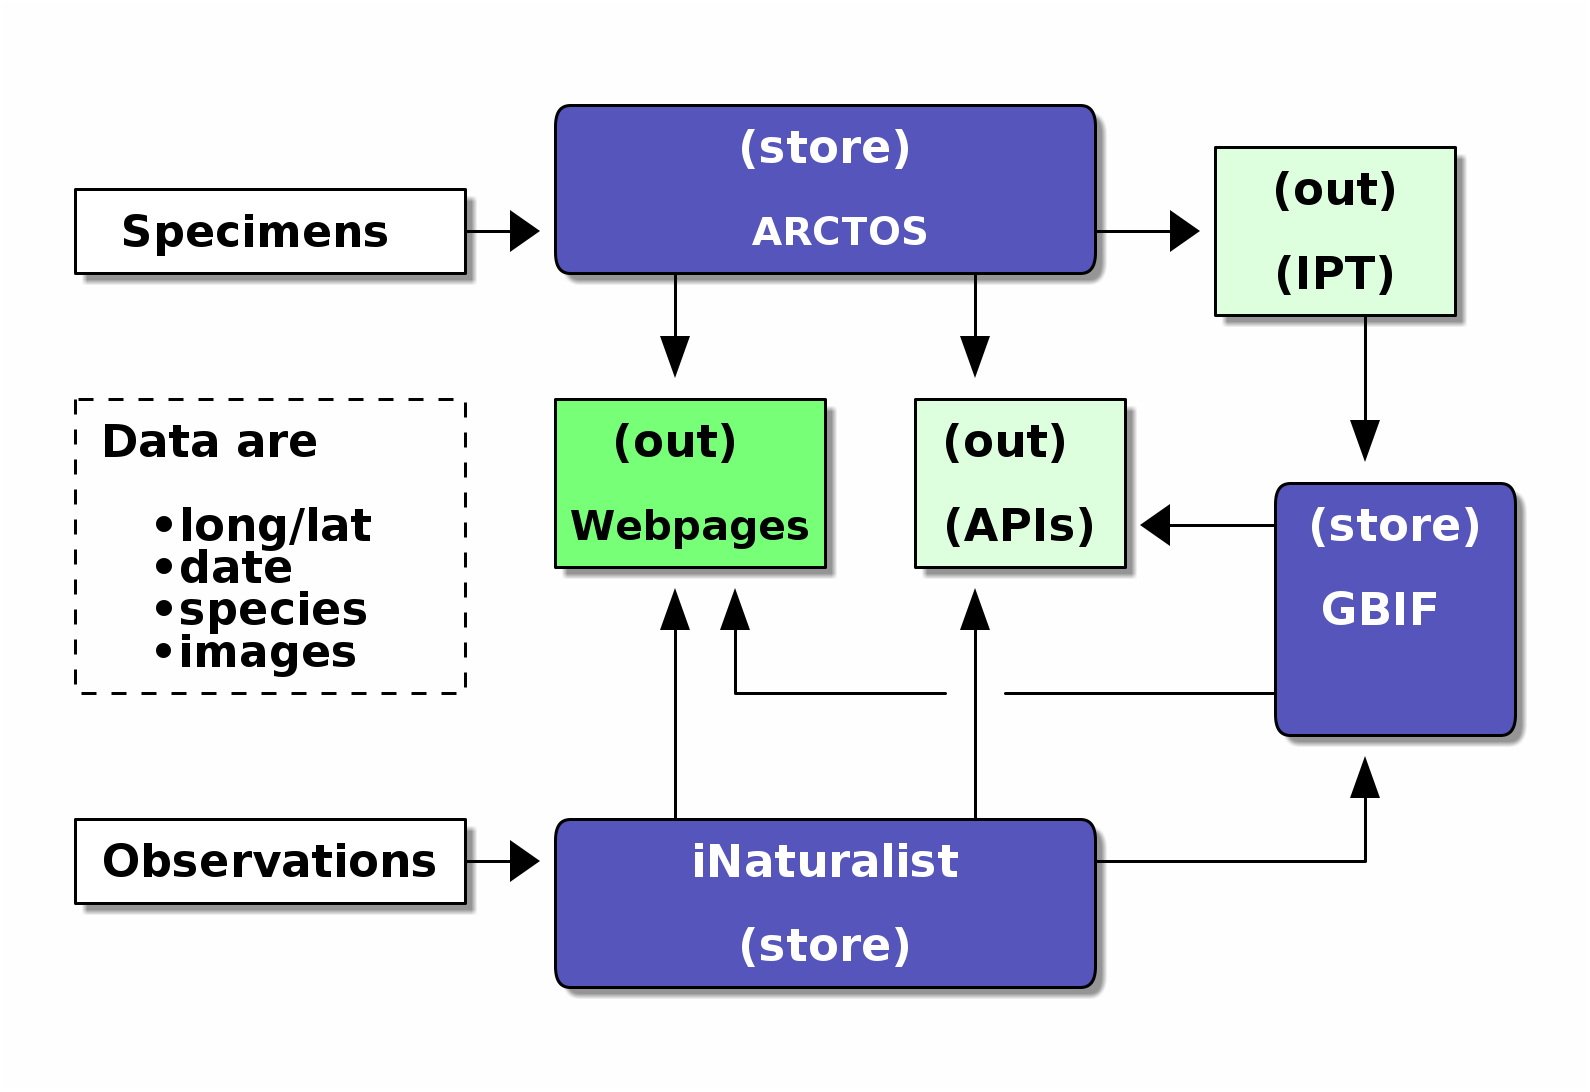
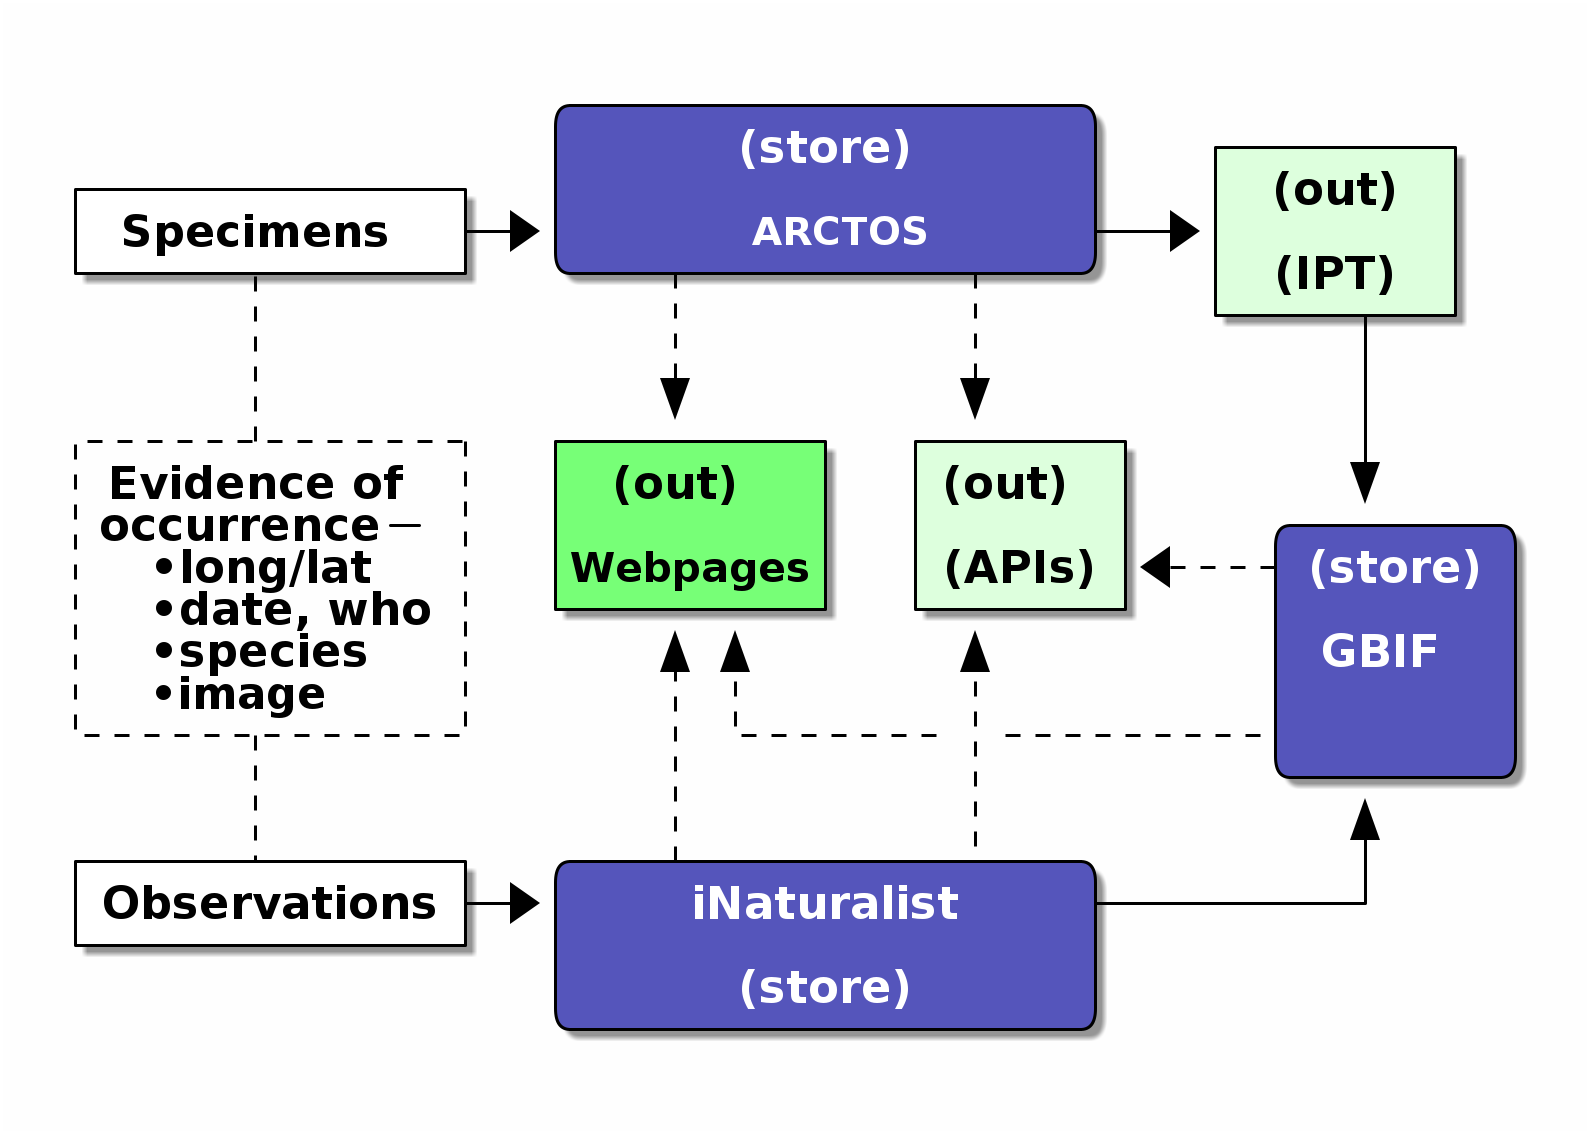
auto

diff --git a/alaskaflora.org/pages/AKDatUM_notes.html b/alaskaflora.org/pages/AKDatUM_notes.html
@@ -2,7 +2,7 @@
 <html lang="en" xmlns="http://www.w3.org/1999/xhtml">
   <head>
     <meta http-equiv="Content-Type" content="text/html; charset=utf-8" />
-    <title>Alaska Flora : AKDatUM Notes (2022-01-20)</title>
+    <title>Alaska Flora : AKDatUM: Arctos &amp; iNat</title>
     <meta name="viewport" content="width=device-width, initial-scale=1"/>
     <link href="https://fonts.googleapis.com/css?family=Montserrat:400,300,600" rel="stylesheet" type="text/css"/>
     <link rel="stylesheet" href="../css/normalize.css"/>
@@ -15,11 +15,50 @@
     <div class="container">
       <div class="row">
         <div class="nine columns" style="margin-top: 5%">
-          <h1 id="akdatum-notes-2022-01-20">AKDatUM Notes (2022-01-20)</h1>
-          <p><em>Posted by <a href="people.html#cam">Cam</a> on 2022-01-20</em></p>
+          <h1 id="akdatum-arctos-inat">AKDatUM: Arctos &amp; iNat</h1>
+          <p><em>Posted by <a href="people.html#cam">Cam</a> on 2022-01-20 for AKDatUM workshop</em></p>
           <p><strong>Short URL to here: <a href="https://is.gd/akdcam">is.gd/akdcam</a></strong></p>
-          <h2 id="data-flowchart">Data flowchart</h2>
-          <p><img src="../img/arcinat.jpg" alt="Arctos and iNat data diagram" style="width:80%;margin-left: auto; margin-right: auto; display:block;"/></p>
+          <p><img src="../img/arcinat.jpg" alt="Arctos and iNat data diagram" style="width:80%; margin-right: auto; display:block;"/></p>
+          <h2 id="data">Data</h2>
+          <p>Evidence of the occurrence of an organism at a place and time:</p>
+          <ul>
+          <li>Physical collections (specimens)</li>
+          <li>Observations (without or with photographs)</li>
+          </ul>
+          <p>Key data:</p>
+          <ul>
+          <li>Where? (long/lat)</li>
+          <li>When?</li>
+          <li>What species?</li>
+          <li>Recorded by who?</li>
+          </ul>
+          <h2 id="data-stores">Data stores</h2>
+          <p>Specimen information is stored in a museum collections database. At UAF, for Alaska, we use <strong>Arctos</strong>: <a href="https://arctos.database.museum">arctos.database.museum</a></p>
+          <p>The largest open repository of human observation data is <strong>iNaturalist</strong>: <a href="https://inaturalist.org">inaturalist.org</a></p>
+          <p>The largest global biodiversity occurrence data store, which contains the data in Arctos and iNaturalist and many other sources, is <strong>GBIF</strong>, the Global Biodiversity Information Facility: <a href="https://gbif.org">gbif.org</a></p>
+          <h2 id="obtaining-the-data">Obtaining the data</h2>
+          <p>Each of these sites allows:</p>
+          <ul>
+          <li>Queries via their web pages and downloads of queried data, via a <strong>browser</strong></li>
+          <li>More comprehensive access to their data via an API (Application Programming Interface)</li>
+          </ul>
+          <h3 id="arctos">Arctos</h3>
+          <p>To download data from Arctos:</p>
+          <ul>
+          <li>Make a user account and log in</li>
+          <li>Query the database using the search boxes at <a href="https://arctos.database.museum">arctos.database.museum</a></li>
+          <li>On the results page, find the drop-down named “Tools: Map, Customize or Download” and select Download</li>
+          </ul>
+          <p>The Arctos API <em>endpoint</em> can be seen <a href="https://arctos.database.museum/component/api/v1/catalog.cfc?method=about">here</a>; the results are in <a href="https://en.wikipedia.org/wiki/JSON">JSON</a>. Information about the Arctos API can be found <a href="https://alaskaflora.org/pages/arctos_webinar.html#the-arctos-api">here</a>.</p>
+          <p>An efficient way to get large data downloads from Arctos is via the <a href="http://ipt.vertnet.org:8080/ipt/resource?r=uam_herb_vascular"><strong>IPT dumps</strong></a> (from Vertnet) prepared for inporting the data into GBIF.</p>
+          <h3 id="inaturalist">iNaturalist</h3>
+          <ul>
+          <li>Make a user account and log in</li>
+          <li>Go to ‘Explore’ and enter a taxon and a place</li>
+          <li>Click the ‘Filters’ box and the advanced search options will appear. At the bottom left is a link for Download.</li>
+          <li>Adjust your search details and the fields you want returned and go to ‘4. Export’</li>
+          </ul>
+          <p>Information about the API is <a href="https://www.inaturalist.org/pages/api%252Breference">here</a></p>
         </div>
         <div class="three columns" style="margin-top: 5%">
           <a class="button" style="width:100%" href="project.html">Project Info</a><br/>

diff --git a/pages_md/AKDatUM_notes.md b/pages_md/AKDatUM_notes.md
@@ -1,12 +1,77 @@
-% AKDatUM Notes (2022-01-20)
+% AKDatUM: Arctos & iNat
 
-# AKDatUM Notes (2022-01-20)
+# AKDatUM: Arctos & iNat
 
-_Posted by [Cam](people.html#cam) on 2022-01-20_
+_Posted by [Cam](people.html#cam) on 2022-01-20 for AKDatUM workshop_
 
 **Short URL to here: [is.gd/akdcam](https://is.gd/akdcam)**
 
-## Data flowchart
+<img src="../img/arcinat.jpg" alt="Arctos and iNat data diagram" style="width:80%; margin-right: auto; display:block;"/>
 
-<img src="../img/arcinat.jpg" alt="Arctos and iNat data diagram" style="width:80%;margin-left: auto; margin-right: auto; display:block;"/>
+## Data
+
+Evidence of the occurrence of an organism at a place and time: 
+
+ * Physical collections (specimens)
+ * Observations (without or with photographs)
+
+Key data:
+
+ * Where? (long/lat)
+ * When?
+ * What species?
+ * Recorded by who?
+
+## Data stores
+
+Specimen information is stored in a museum collections database. At
+UAF, for Alaska, we use **Arctos**:
+[arctos.database.museum](https://arctos.database.museum)
+
+The largest open repository of human observation data is **iNaturalist**:
+[inaturalist.org](https://inaturalist.org)
+
+The largest global biodiversity occurrence data store, which contains
+the data in Arctos and iNaturalist and many other sources, is
+**GBIF**, the Global Biodiversity Information Facility:
+[gbif.org](https://gbif.org)
+
+## Obtaining the data
+
+Each of these sites allows:
+
+ * Queries via their web pages and downloads of queried data, via a **browser**
+ * More comprehensive access to their data via an API (Application
+   Programming Interface)
+   
+### Arctos
+
+To download data from Arctos:
+
+ * Make a user account and log in
+ * Query the database using the search boxes at
+   [arctos.database.museum](https://arctos.database.museum)
+ * On the results page, find the drop-down named “Tools: Map,
+   Customize or Download” and select Download
+
+The Arctos API _endpoint_ can be seen
+[here](https://arctos.database.museum/component/api/v1/catalog.cfc?method=about); the results are in
+[JSON](https://en.wikipedia.org/wiki/JSON). Information about the
+Arctos API can be found
+[here](https://alaskaflora.org/pages/arctos_webinar.html#the-arctos-api).
+
+An efficient way to get large data downloads from Arctos is via the
+[**IPT dumps**](http://ipt.vertnet.org:8080/ipt/resource?r=uam_herb_vascular)
+(from Vertnet) prepared for inporting the data into GBIF.
+
+### iNaturalist
+
+ * Make a user account and log in
+ * Go to ‘Explore’ and enter a taxon and a place
+ * Click the ‘Filters’ box and the advanced search options will
+   appear. At the bottom left is a link for Download.
+ * Adjust your search details and the fields you want returned and go
+   to ‘4. Export’
+
+Information about the API is [here](https://www.inaturalist.org/pages/api%252Breference)
 
